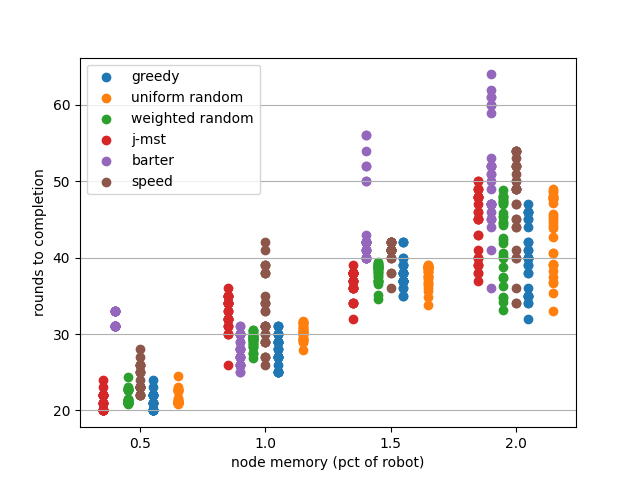
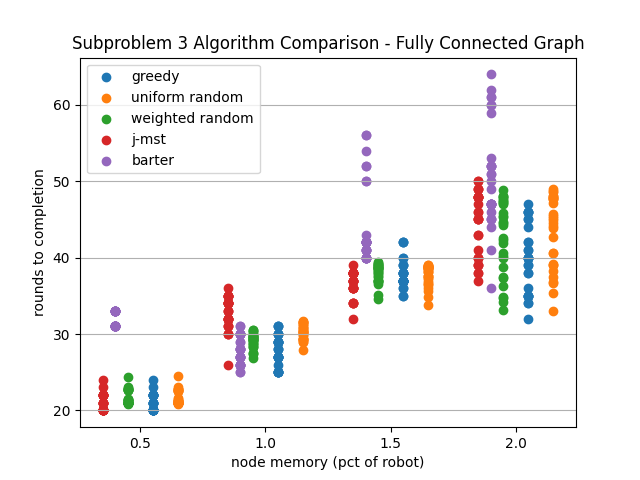
updated map merging content that doesn't work yay

diff --git a/map_merging.py b/map_merging.py
@@ -1,0 +1,274 @@
+"""
+Map-Merging Algorithm for ROS mapping
+Based off Merging Occupancy Grid Maps From Multiple Robots (2006) by Birk and Carpin
+Doesn't fully work, functionally runs but doesn't find the best transformation to complete the merge
+"""
+
+import numpy as np
+
+n = 0 # size of matrix in X direction
+m = 0 # size of matrix in Y direction
+
+# takes in a matrix and a c value, returns the associated dmap
+def dmap(m1,c):
+    # set up array in same dimensions as m
+    new_m1 = np.zeros([n,m])
+    max = n*m + 1
+    # convert m into 0 and max
+    for x in range(n):
+        for y in range(m):
+            if m1[x][y] == c:
+                new_m1[x][y] = 0
+            else:
+                new_m1[x][y] = max
+
+    # first pass: update cell based on val and left and upper neighbors
+    h = 0
+    for x in range(-1,n-1):
+        for y in range(-1,m-1):
+            # h = min of left+1 and upper+1
+            h = min(new_m1[x-1][y]+1, new_m1[x][y-1]+1)
+            # dmap at location: min current and h
+            new_m1[x][y] = min(h, new_m1[x][y])
+    
+    # second pass: update cell based on val and right and lower neighbors, start from bottom right corner
+    # probably right in indices but we'll see
+    for x in range(n-2,-2,-1):
+        for y in range(m-2,-2,-1):
+            # h = min of right+1 and lower+1
+            h = min(new_m1[x+1][y]+1, new_m1[x][y+1]+1)
+            # dmap at location: min current and h
+            new_m1[x][y] = min(h, new_m1[x][y])
+    return new_m1
+
+# calculates d for two matrices and a c value
+def d(m1, m2, c):
+    # compute dmap for m2 c
+    m2_dmap = dmap(m2,c)
+    ret = 0
+    count = 0
+    for x in range(-1,n):
+        for y in range(-1,m):
+            if m1[x][y] == c:
+                count += 1
+                ret += m2_dmap[x][y]
+
+    # ret = ret / num of c instances in m1
+    if (count > 0):
+        ret = ret / count
+    return ret
+
+# calculates the similarity between two matrices
+def similarity(m1, m2):
+    # sum of for all possible values of c
+    total = 0
+    for c in [0,1]:
+        # calculate d(m1, m2, c)
+        d1 = d(m1, m2, c)
+        # calculate d(m2, m1, c)
+        d2 = d(m2, m1, c)
+
+        total += d1+d2
+    return total
+
+# finds the number of cells in the two matrices that agree (excltying unknown values)
+def agr(m1, m2):
+    # num of cells in m1,m2 that agree when directly overlapping
+    total = 0
+    for x in range(n):
+        for y in range(m):
+            # print(x,y,m1[x][y],m2[x][y])
+            if m1[x][y] == m2[x][y] and m1[x][y] != -1:
+                total += 1
+    return total
+
+# finds the number of cells in the two matrices that disagree (excltying unknown values)
+def dis(m1, m2):
+    # num of cells in m1,m2 that agree when directly overlapping
+    total = 0
+    for x in range(n):
+        for y in range(m):
+            # print(x,y,m1[x][y],m2[x][y])
+            if m1[x][y] != m2[x][y] and m1[x][y] != -1 and m2[x][y] != -1:
+                total += 1
+    return total
+
+# calculates the heuristic for a specific transformation
+def delta(m1,m2):
+    # similarity + clock(dis-agr)
+    clock = 0.1
+    sec_half = clock * (dis(m1,m2) - agr(m1,m2))
+    total = similarity(m1,m2) + sec_half
+    # print(similarity(m1,m2), sec_half, total)
+    return total
+
+# calculates the acceptance indicator
+def ai(m1,m2):
+    # anything above 98% is considered good
+    agr_c = agr(m1,m2)
+    dis_c = dis(m1,m2)
+    ai = 1-(agr_c / (agr_c+dis_c))
+    return ai
+
+# generates the next guess based on previous guess, translation left/right, and translation up/down
+def nextMatrix(prev, tx, ty, theta):
+    # do transformation matrix as shown in article
+    trans_matrix = np.array([[np.cos(theta),-np.sin(theta),tx],
+                    [np.sin(theta),np.cos(theta),ty],
+                    [0,0,1]])
+    # print(trans_matrix)
+    
+    # result = np.ones([n,m]) * -1 # should these be -1s or what
+    result = np.zeros([n,m])
+    for x in range(n):
+        for y in range(m):
+            # print(x,y)
+            a = np.array([[x], [y], [1]])
+            r = trans_matrix.dot(a)
+            # result[x][y] = r * prev[x][y]
+            # print(r)
+            new_x, xd = int(r[0]),r[0]-int(r[0])
+            new_y, yd = int(r[1]),r[1]-int(r[1])
+            # print(new_x, new_y)
+            if (new_x < n and new_y < m and new_x > -1 and new_y > -1): 
+                result[new_x][new_y] = ((xd*prev[x-1][y]) + ((1-xd)*prev[x][y]) + (yd*prev[x][y-1]) + ((1-yd)*prev[x][y]))/2
+                result[new_x][new_y] = round(result[new_x][new_y])
+                # print(new_x, new_y, result[new_x][new_y])
+            # print("------")
+    # problem: a bunch of the values get cut off cause they turn negative. have to figure out some way to shift the matrix over so it's normal
+    # 
+    return result
+
+"""
+input: two maps/occupancy grids of any size
+output: the two maps combined (provided that there is some overlap), None otherwise
+"""
+def map_merging(m1, m2):
+    # determine n and m based on biggest dimensions 
+    global n,m
+    if (len(m1) > n): 
+        n = len(m1)
+    if (len(m2) > n): 
+        n = len(m2)
+    if (len(m1[0]) > m): 
+        m = len(m1[0])
+    if (len(m2[0]) > m): 
+        m = len(m2[0])
+    print(n,m)
+
+    # convert the 
+
+    # perform random walk algorithm
+    maxNumSteps = 20
+    steps = 0
+    maxNumTries = 1000
+    tries = 0
+    prev_m2 = m2
+    prev_score = 0
+    mean = [0,1,1] # need actual random values cause otherwise it won't go anywhere
+    cov = [[1,0,0],[0,1,0],[0,0,1]]
+    cov = np.array(cov)
+    h = 3 # num of prev samples to be used for recalc covariance and mean
+    # rs_threshold = 0.98
+    samples = np.zeros([maxNumSteps,5])
+    while (tries < maxNumTries and steps < maxNumSteps):
+        tries += 1
+        # print(cov)
+        # generate new transformation -> prev_m2 + random new thing
+        [theta, tx, ty] = np.random.multivariate_normal(mean,cov)
+        tx = round(tx)
+        ty = round(ty)
+        theta = round(theta,2)
+        # print(theta, tx, ty)
+        s = nextMatrix(prev_m2, tx, ty, theta)
+
+        # calc new score based on heuristic delta
+        new_score = round(delta(m1,s))
+        acceptance = round(ai(m1,s),2)
+        # print(new_score)
+        
+        # random keep thing is here but makes the acceptance indicator worse :(
+        # rs_val = np.random.random_sample()
+        # print(rs_val, rs_threshold, " <------")
+        if (new_score > prev_score):
+            print("success!", new_score, prev_score)
+            print(s)
+            prev_m2 = s
+            prev_score = new_score
+
+            samples[steps] = [theta, tx, ty, new_score, acceptance]
+            steps += 1
+            # print(samples)
+
+            # update covariance and mean
+            # should h always be 10 or should it build up to 10? 
+            # index has to also be taken into account when indexing into samples
+            # either first three samples or steps-3:steps
+            if (steps < h):
+                last_h_vals = samples[:h]
+            else:
+                last_h_vals = samples[steps-h:steps]
+            cov = np.cov(last_h_vals)
+            print(cov)
+            mean = last_h_vals.mean(1)
+            # cov is going from being a 1x3 array to being a 10x10 array
+            # because we're giving it 10 samples so it's returning a 10x10 array
+    print("--------")
+    print(steps, tries)
+    print(samples)
+    print(prev_m2)
+            
+    # at this point prev_m2 should be the best
+
+    # then actually merge the maps together... lol. 
+    # using transform from best option, transform m2 again but don't cut off any edges that get moved around
+
+    # then let's run through each coordinate
+    # if either is -1 and the other is a value set to value
+    # take average of two values if both are real
+    # if either is 0 or 1 set to that? 
+
+
+
+
+    pass
+
+m1 = [[0,1,1,-1,5,10],
+      [0,2,2,30,4,5],
+      [0,3,3,10,-1,6],
+      [0,4,4,-1,-1,-1],
+      [0,5,5,0,0,0],
+      [0,6,6,0,0,0]]
+
+m2 = [[0,0,1,1,-1,5],
+      [0,0,2,2,30,4],
+      [0,0,3,3,10,-1],
+      [0,0,4,4,-1,-1],
+      [0,0,5,5,0,0],
+      [0,0,6,6,0,0]]
+
+# m1 = [[0,0,0,0,0,100],
+#       [0,0,0,0,0,100],
+#       [0,0,0,0,0,100],
+#       [0,0,0,0,0,100],
+#       [0,0,0,0,0,100],
+#       [0,0,0,0,0,100]]
+
+# m2 = [[100,0,0,0,0,0],
+#       [100,0,0,0,0,0],
+#       [100,0,0,0,0,0],
+#       [100,0,0,0,0,0],
+#       [100,0,0,0,0,0],
+#       [100,0,0,0,0,0]]
+
+map_merging(m1,m2)
+
+# print(agr(m1,m2))
+# print(dis(m1,m2))
+# print(ai(m1,m2))
+# print(dmap(m1,1))
+# print(dmap(m2,0))
+# print(d(m1,m2,0))
+# print(d(m1,m2,1))
+# print(similarity(m1,m1))
+# print(delta(m1,m1))

diff --git a/problem6_variedgraphcollection.py b/problem6_variedgraphcollection.py
@@ -2,13 +2,12 @@
 Runs data collection for each algorithm for three types of graphs in problem 6.
 The three types of graphs are lattice, fully connected, and tree. 
 Algorithm data labels, % node memory (x) vs round to completion (y) by graph type
-Graph shape not yet tested cause ubuntu is stupid with igraph apparently
 """
 # tasks:
 # test running robots / collecting data
 import numpy
 import robot_handler
-import problem6_greedy, problem6_jmst, problem6_uniform, problem6_weighted, problem6_speed, problem6_barter
+import problem6_greedy, problem6_jmst, problem6_uniform, problem6_weighted, problem6_barter
 import matplotlib.pyplot as plt
 import params
 import random, math
@@ -17,7 +16,6 @@ greedy_trials = []
 jmst_trials = []
 uniform_trials = []
 weighted_trials = []
-speed_trials = []
 barter_trials = []
 
 # stores the data for each run? idk
@@ -29,8 +27,8 @@ uniform_rounds = [[]]
 uniform_usage = [[]]
 weighted_rounds = [[]]
 weighted_usage = [[]]
-speed_rounds = [[]]
 barter_rounds = [[]]
+barter_usage = [[]]
 x_axis = []
 
 # sum of node memory is a certain ratio of the amount of memory of all the robots, 50-200%
@@ -48,7 +46,6 @@ def run_robots(a, b):
         uniform_usage.append([])
         weighted_rounds.append([])
         weighted_usage.append([])
-        speed_rounds.append([])
         barter_rounds.append([])
 
     # for i in range(num_trials):
@@ -56,7 +53,6 @@ def run_robots(a, b):
     # print("trial #" + str(b))
     greedy_trials.append(robot_handler.run_all_robots(problem6_greedy.greedy_alg))
     jmst_trials.append(robot_handler.run_all_robots(problem6_jmst.jmst_alg))
-    speed_trials.append(robot_handler.run_all_robots(problem6_speed.speedy_alg))
     barter_trials.append(robot_handler.run_all_robots(problem6_barter.barter_alg))
 
     # for probabilistic trials, must run 30 trials for every trial run in general
@@ -99,9 +95,9 @@ def analyze_data():
     rounds.scatter(numpy.array(x_axis)-0.05, weighted_rounds, label='weighted random')
     rounds.scatter(numpy.array(x_axis)-0.15, jmst_rounds, label='j-mst')
     rounds.scatter(numpy.array(x_axis)-0.10, barter_rounds, label='barter')
-    rounds.scatter(numpy.array(x_axis), speed_rounds, label='speed')
     rounds.set_xlabel('node memory (pct of robot)')
     rounds.set_ylabel('rounds to completion')
+    rounds.set_title('Subproblem 3 Algorithm Comparison - Tree Graph')
     rounds.legend()
     rounds.set_xticks([0.5,1,1.5,2])
     rounds.grid(axis = 'y')
@@ -122,7 +118,6 @@ def main():
         for i in range(num_trials):
             greedy_rounds[a].append(greedy_trials[(a*num_trials)+i][0])
             greedy_usage[a].extend(greedy_trials[(a*num_trials)+i][1])
-            speed_rounds[a].append(speed_trials[(a*num_trials)+i][0])
             jmst_rounds[a].append(jmst_trials[(a*num_trials)+i][0])
             jmst_usage[a].extend(jmst_trials[(a*num_trials)+i][1])
             uniform_rounds[a].append(uniform_trials[(a*num_trials)+i][0])

diff --git a/problem3_graph.py b/problem3_graph.py
@@ -16,5 +16,5 @@ for col in data.columns:
     data_plot.scatter(np.random.normal(val, 0.1, size=len(data_col)).tolist(), data_col, label=col, alpha = 0.5)
     val += 1
 data_plot.set_ylabel('Unused Memory from Run')
-data_plot.set_title('Problem 3 Algorithm Comparison')
+data_plot.set_title('Subproblem 2 Algorithm Comparison')
 plt.show()

diff --git a/problem1_graph.py b/problem1_graph.py
@@ -11,5 +11,5 @@ for col in data.columns:
     data_plot.scatter(np.random.normal(val, 0.1, size=len(data_col)).tolist(), data_col, label=col, alpha = 0.5)
     val += 1
 data_plot.set_ylabel('Fraction of Optimal')
-data_plot.set_title('Problem 1 Algorithm Comparison')
+data_plot.set_title('Subproblem 1 Algorithm Comparison')
 plt.show()
